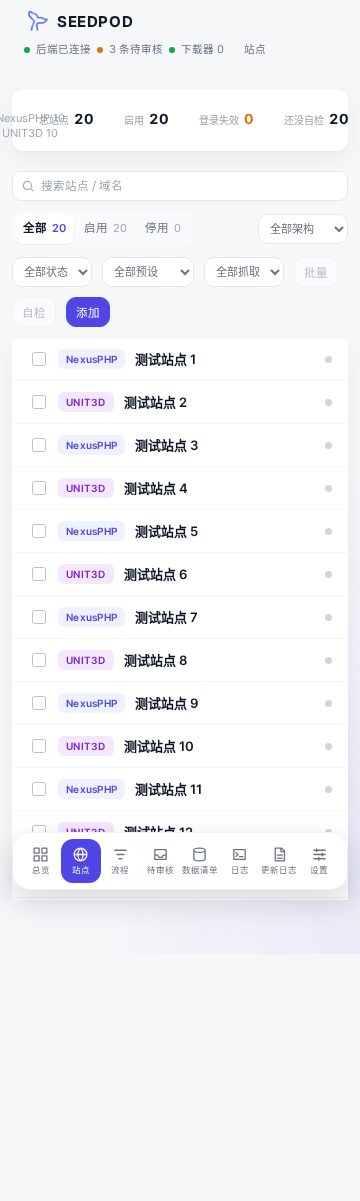
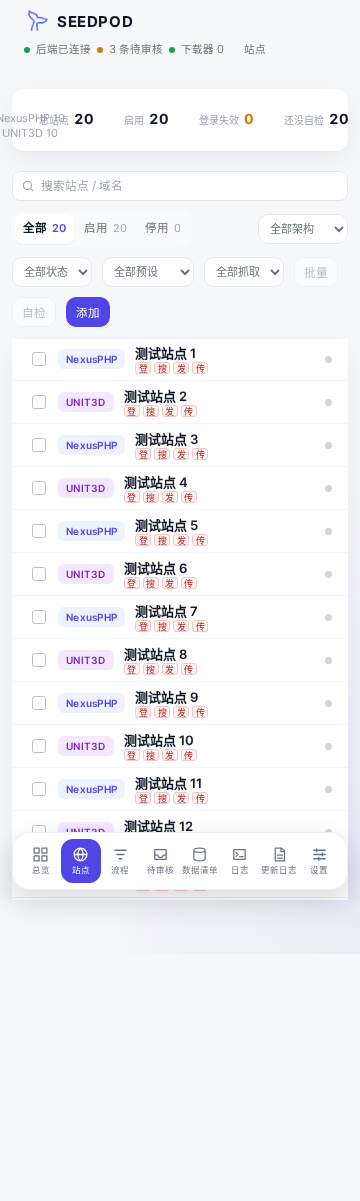
0.7.696 站点列表显示就绪度四标

Changed region(s): [[0.3361, 0.2773, 0.5806, 0.7086]]

diff --git a/pta/server/src/http/routes-data.js b/pta/server/src/http/routes-data.js
@@ -294,10 +294,36 @@ module.exports = function (app, ctx) {
   });
   app.get('/api/site-defs', async () => {
     const out = {};
+    const cookieMap = {};
+    cookieStore.list().forEach(function (c) { cookieMap[c.host] = c; });
+    const status = readStatus();
     siteStore.list().forEach(function (s) {
       const cats = s.search.cats || {};
-      out[s.host] = { engine: s.engine || '', base: s.url.base || '', groups: Object.keys(cats).length,
-        ids: Object.keys(cats).reduce(function (a, k) { return a + (cats[k] || []).length; }, 0), cats: cats };
+      const groups = Object.keys(cats).length;
+      const ids = Object.keys(cats).reduce(function (a, k) { return a + (cats[k] || []).length; }, 0);
+      const ed = ENGINES[String(s.engine || '').toLowerCase()] || {};
+      const defaultFields = Object.keys(ed.fields || {}).length;
+      const uploadFields = Object.keys((s.publish.upload && s.publish.upload.fields) || {}).length;
+      const pcount = Object.keys(s.publish.catMap || {}).length;
+      const c = cookieMap[s.host];
+      const st = status[s.host];
+      let cookie = { state: 'missing', label: '未导入 cookie' };
+      if (c) {
+        if (!c.readable) cookie = { state: 'bad', label: 'cookie 解不开' };
+        else if (st && st.pass === true) cookie = { state: 'ok', label: '登录已就绪' };
+        else if (st && st.pass === false) cookie = { state: 'bad', label: '登录失败' };
+        else cookie = { state: 'warn', label: '登录待验证' };
+      }
+      const search = groups ? { state: 'ok', label: '搜索 ' + groups + ' 类' } : { state: 'missing', label: '缺搜索分类' };
+      const publish = pcount ? { state: 'ok', label: '发布 ' + pcount + ' 类' } : { state: 'missing', label: '缺发布分类' };
+      const upload = uploadFields ? { state: 'ok', label: '上传 ' + uploadFields + ' 字段' }
+        : (defaultFields ? { state: 'warn', label: '引擎默认 ' + defaultFields + ' 字段' } : { state: 'missing', label: '缺上传字段' });
+      const enabled = s.settings.enabled !== false;
+      const engineOk = !!s.engine && s.engine !== '?';
+      out[s.host] = { engine: s.engine || '', base: s.url.base || '', groups: groups, ids: ids, cats: cats,
+        ready: { cookie: cookie, search: search, publish: publish, upload: upload,
+          crawlReady: enabled && engineOk && cookie.state !== 'missing' && cookie.state !== 'bad' && search.state === 'ok',
+          publishReady: enabled && engineOk && cookie.state !== 'missing' && cookie.state !== 'bad' && publish.state === 'ok' && upload.state !== 'missing' } };
     });
     return ok(out);
   });

diff --git a/pta/web/src/components/SitesList.vue b/pta/web/src/components/SitesList.vue
@@ -9,7 +9,12 @@
         <div v-for="s in pageRows" :key="s.name" class="site-item" :class="{ on: sel === s.name }" @click="emit('open', s.name)">
           <input type="checkbox" class="site-pick" :checked="picks.includes(s.name)" @click.stop @change="emit('pick', s.name)">
           <span class="si-arch"><em class="chip" :class="archCls(s)">{{ archLabel(s) }}</em></span>
-          <span class="si-txt"><b>{{ s.title }}</b></span>
+          <span class="si-txt">
+            <b>{{ s.title }}</b>
+            <span v-if="s.ready" class="si-ready">
+              <em v-for="r in readyChips(s.ready)" :key="r.short" class="rd" :class="r.state" :title="r.label">{{ r.short }}</em>
+            </span>
+          </span>
           <span class="st" :class="dotCls(s)"><i></i></span>
           <span class="si-mode">{{ modeTxt(s) }}</span>
           <span class="si-last">{{ lastCrawlTxt(s) }}</span>
@@ -54,6 +59,14 @@ function presetTxt(s) {
   return code + (s.preset.groups ? ' ' + s.preset.groups + '组' : '') + (s.preset.confirmed ? '' : ' · 待确认')
 }
 function lastCrawlTxt(s) { return s.lastAt ? fmtWhen(s.lastAt) : '未抓取' }
+function readyChips(r) {
+  return [
+    { short: '登', state: r.cookie.state, label: r.cookie.label },
+    { short: '搜', state: r.search.state, label: r.search.label },
+    { short: '发', state: r.publish.state, label: r.publish.label },
+    { short: '传', state: r.upload.state, label: r.upload.label }
+  ]
+}
 function go(n) {
   const p = Number(props.pages) || 1
   if (n < 1 || n > p || n === Number(props.page)) return
@@ -110,6 +123,13 @@ function go(n) {
 .si-txt b { display: block; font-size: 12px; font-weight: 600; color: var(--ink);
   white-space: nowrap; overflow: hidden; text-overflow: ellipsis; }
 .si-txt span { display: block; font-size: 10.5px; color: var(--muted-2); }
+.si-txt > .si-ready { display: flex; gap: 3px; margin-top: 1px; line-height: 1; }
+.si-ready .rd { display: inline-flex; align-items: center; justify-content: center; width: 16px; height: 12px;
+  font-style: normal; font-size: 9px; line-height: 1; border-radius: 3px; border: 1px solid var(--line);
+  background: #fafbfd; color: var(--muted-2); }
+.si-ready .rd.ok { color: #087443; background: #ecfdf3; border-color: #c6efd9; }
+.si-ready .rd.warn { color: #9a6700; background: #fffaeb; border-color: #f2dfae; }
+.si-ready .rd.bad, .si-ready .rd.missing { color: #b42318; background: #fef3f2; border-color: #f4c7c3; }
 .si-arch .chip { font-size: 10px; }
 .si-login { font-size: 11.5px; color: var(--muted); }
 .si-login.ok { color: var(--green); }

diff --git a/pta/server/checks/api-v2/site-ops.js b/pta/server/checks/api-v2/site-ops.js
@@ -190,6 +190,9 @@ module.exports = async function run(ctx) {
     need(got.data.uploadDefaults && got.data.uploadDefaults.fieldCount === 10, '引擎默认上传字段数不对：' + JSON.stringify(got.data.uploadDefaults));
     const list = await (await fetchA(BASE + '/api/site-defs')).json();
     need(list.ok && list.data[host] && list.data[host].groups === 2 && list.data[host].ids === 2, 'site-defs 分类统计不对：' + JSON.stringify(list.data[host]));
+    const rd = list.data[host].ready;
+    need(rd && rd.search.state === 'ok' && rd.publish.state === 'ok', '就绪度搜索/发布不对：' + JSON.stringify(rd));
+    need(rd.upload.state === 'warn' && rd.cookie.state === 'missing', '就绪度上传/登录不对：' + JSON.stringify(rd));
     const obj = { engine: 'nexusphp', base: 'https://map.example', catMap: { movie: '401', tv: '402' } };
     const put2 = await fetchA(BASE + '/api/site-def/' + host, {
       method: 'PUT', headers: { 'content-type': 'application/json' }, body: JSON.stringify(obj)

diff --git a/pta/web/src/views/Sites.vue b/pta/web/src/views/Sites.vue
@@ -128,6 +128,7 @@ const sites = computed(() => baseSites.value
     const st = statusMap.value[x.host] || null
     const cr = crawlState.value[x.host] || {}
     const cd = creds.value[x.host] || null
+    const df = defs.value[x.host] || null
     return {
       name: x.host,
       title: x.title || x.host,
@@ -154,7 +155,8 @@ const sites = computed(() => baseSites.value
       lastAt: Number(cr.lastAt) || 0,
       todayCount: Number(cr.dayCount) || 0,
       preset: presets.value[x.host] || null,
-      def: defs.value[x.host] || null
+      def: df,
+      ready: df && df.ready ? df.ready : null
     }
   }))
 

diff --git a/pta/web/checks/smoke-live.js b/pta/web/checks/smoke-live.js
@@ -221,6 +221,7 @@ async function main() {
     need(ui.buttons === 0 && ui.links === 2, '分页不该再用按钮：' + JSON.stringify(ui));
     need(ui.listRight <= ui.paneLeft + 1, '列表和详情没有左右分栏：' + JSON.stringify(ui));
     need(ui.listH > 200 && ui.paneH > 200 && Math.abs(ui.listH - ui.workH) < 2, '两栏没有布满卡片：' + JSON.stringify(ui));
+    need(await page.locator('#sites-list .si-ready .rd').count() >= 4, '站点列表没显示就绪度标记');
     need(ui.listBottom - ui.pagerBottom < 24, '分页没贴在列表底部：' + JSON.stringify(ui));
   });
 

diff --git a/pta/docs/DECISIONS.md b/pta/docs/DECISIONS.md
@@ -1,3 +1,9 @@
+## D22 站点就绪度用列表内四小标 + 三态（2026-11-26）
+
+定了：站点列表每行显示“登 / 搜 / 发 / 传”四个小标，状态分绿=就绪、黄=待验证、红=缺项；登录有 cookie 但没最近自检算待验证，上传有引擎默认字段也算待验证。数据由 `/api/site-defs` 本地计算，第一版只读，不做批量动作。
+为什么：306 个站的状态分散，用户需要在一行内看出缺什么；三态能区分“没有”和“有配置但没验证”，避免把未验证当成已就绪。
+代价：列表行更密，手机上四个小标只能靠颜色和缩写；真正的“可发布”仍要等上传权限和预检。
+
 # 决策记录
 
 每条只写三件事：定了什么、为什么、代价是什么。改主意就在下面追加新条目，不删旧的。

diff --git a/HANDOFF.md b/HANDOFF.md
@@ -1,6 +1,13 @@
 # HANDOFF · SEEDPOD 面板
 
-最后更新：2026-11-25 23:50（当前 v0.7.695 / 上传页路径与识别；开发清单见 `pta/docs/ROADMAP.md` 顶部）
+最后更新：2026-11-26 01:20（当前 v0.7.696 / 站点就绪度；开发清单见 `pta/docs/ROADMAP.md` 顶部）
+
+## 2026-11-26 站点就绪度（v0.7.696）
+
+- 站点列表每行加“登/搜/发/传”四个小标；绿=就绪、黄=待验证、红=缺项。
+- 登录区分“有 cookie 未自检”“自检失败”“已就绪”；上传区分站点字段和引擎默认字段。
+- `/api/site-defs` 本地计算 `ready`，不发请求；只读，不改抓取/发布逻辑。
+- 检查补接口字段、列表渲染和响应式；全量 `run.sh` 通过。
 
 ## 2026-11-25 上传页路径与识别（v0.7.695）
 

diff --git a/CHANGELOG.md b/CHANGELOG.md
@@ -1,5 +1,13 @@
 # 更新日志
 
+## v0.7.696 · 2026-11-26
+
+### 站点就绪度
+- 站点列表每行显示“登 / 搜 / 发 / 传”四个小标：绿=就绪、黄=待验证、红=缺项。
+- 登录：有 cookie 但没最近自检为待验证；cookie 解不开或自检失败为红。
+- 搜索/发布看分类数；上传区分“站点字段”和“引擎默认字段”。
+- 数据由 `/api/site-defs` 本地计算，不发请求；检查补接口字段和列表渲染。
+
 ## v0.7.695 · 2026-11-25
 
 ### 上传页路径与识别结果
